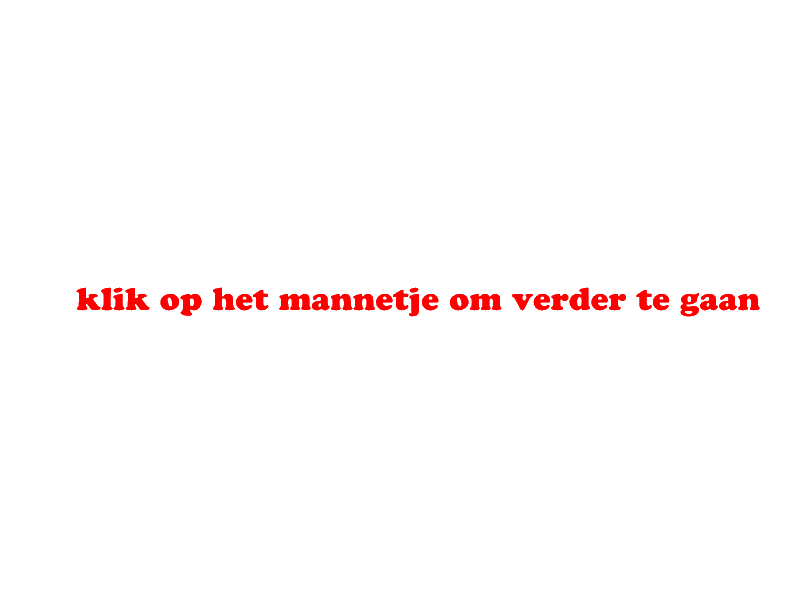
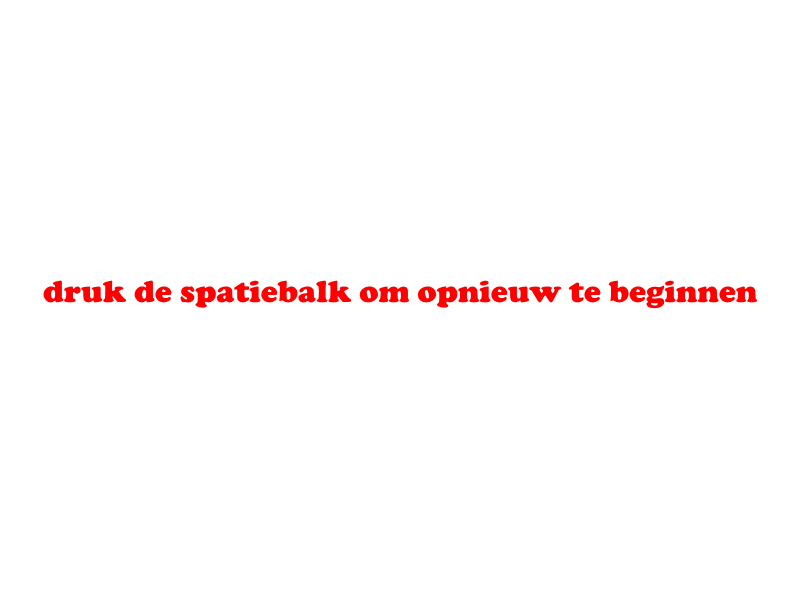
fix gameoverscherm

Changed region(s): [[0.0312, 0.45, 0.9688, 0.54]]

diff --git a/HurtObject.java b/HurtObject.java
@@ -1,11 +1,6 @@
 
 import greenfoot.Actor;
-import greenfoot.Color;
 import greenfoot.Greenfoot;
-import greenfoot.GreenfootImage;
-import greenfoot.MouseInfo;
-import java.util.List;
-
 /*
  * To change this license header, choose License Headers in Project Properties.
  * To change this template file, choose Tools | Templates
@@ -27,7 +22,7 @@ public class HurtObject extends Actor {
      public void act() {
         // Add your action code here.
         if (getImage().toString().contains("hurt")) {
-            if (Greenfoot.mouseClicked(this)) {
+            if (Greenfoot.isKeyDown("space")) {
                 Greenfoot.setWorld(new BeginScherm());
             }
         }
